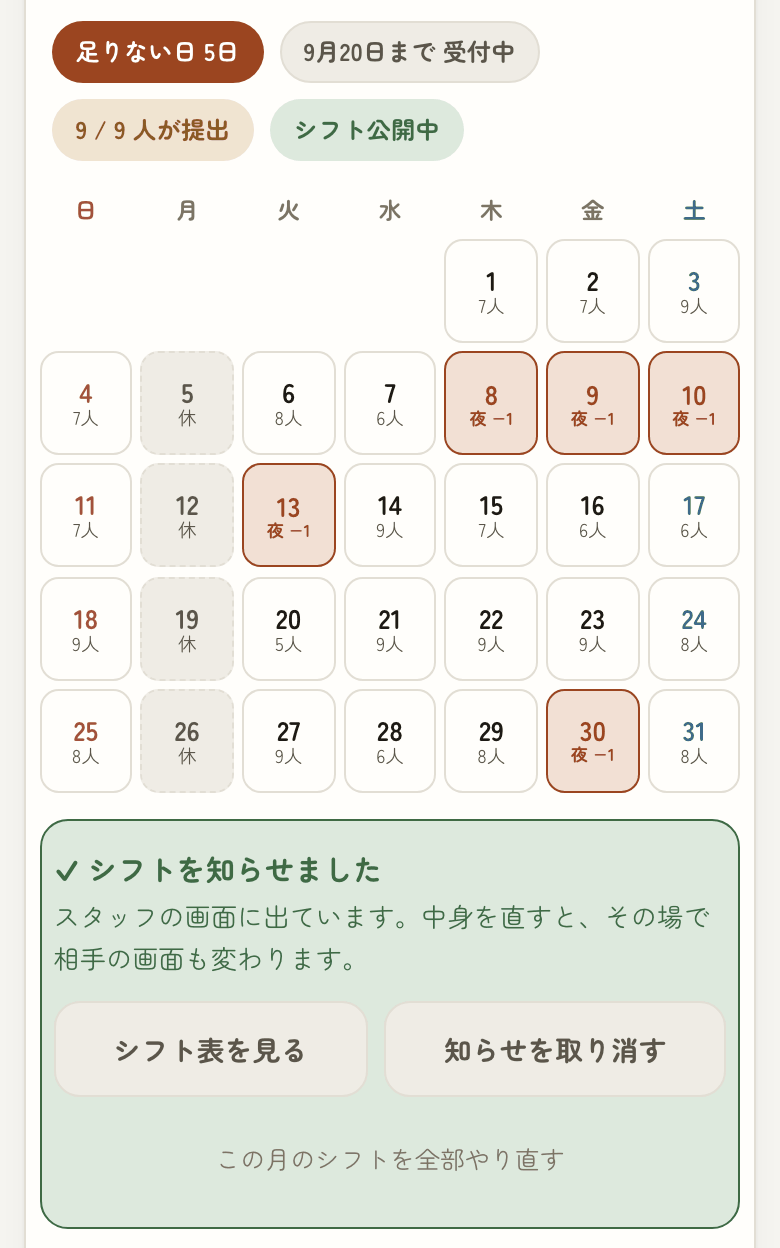
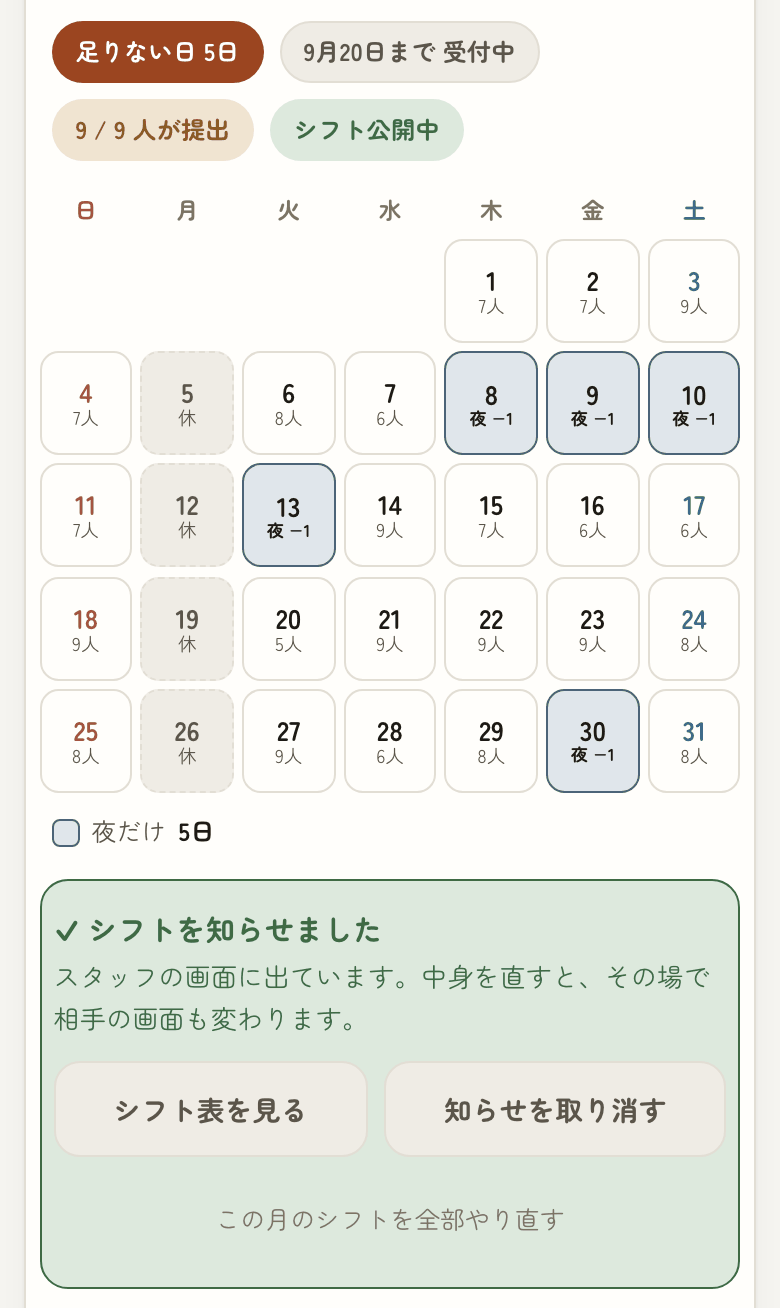
せんや 店長：足りない日を時間帯ごとに色分けした（1つだけ足りない日はその時間帯の色・2つ以上は赤）
- 1つめの時間帯＝黄土・2つめ＝藍（DESIGN.md の顔料の洗い色・字は墨）。時間帯が1つのお店は今までどおり赤
- カレンダーのすぐ下に、色の見本と日数（例：昼だけ 10日・夜だけ 3日・両方 2日）
- 画面と説明書の「足りない日は赤」を「色」に言い換え、カレンダーの写る画像5枚を撮り直した

Claude-Session: https://claude.ai/code/session_01WrqmUkLrVrxaABpAh9Fi1G

diff --git a/tsumiki-senya-tsukaikata.html b/tsumiki-senya-tsukaikata.html
@@ -283,7 +283,7 @@
 <header>
   <p class="kicker">TSUMIKI TOOLS</p>
   <h1>つみき&amp;せんや 使い方</h1>
-  <p class="lead">シフトの希望を集めるアプリです。スタッフは<strong>働ける日をタップするだけ</strong>。店長は<strong>人手が足りない日が、開いた瞬間に赤で分かります</strong>。アプリは<strong>スタッフ用</strong>と<strong>店長用</strong>の2つです。</p>
+  <p class="lead">シフトの希望を集めるアプリです。スタッフは<strong>働ける日をタップするだけ</strong>。店長は<strong>人手が足りない日が、開いた瞬間に色で分かります</strong>。アプリは<strong>スタッフ用</strong>と<strong>店長用</strong>の2つです。</p>
   <p class="openapp">
     <a href="tsumiki-senya.html">スタッフ用を開く →</a>
     <a class="ghost" href="tsumiki-senya-kanri.html">店長用を開く →</a>
@@ -369,7 +369,7 @@
           <div class="arw">→</div>
           <div class="box">店長が<br>1枚で見る</div>
           <div class="arw">→</div>
-          <div class="box">足りない日が<br>赤く出る</div>
+          <div class="box">足りない日に<br>色がつく</div>
         </div>
       </figure></div>
       <div class="txt"><h3><span class="n">1</span>どんな道具か</h3>
@@ -378,7 +378,7 @@
     </article>
 
     <article class="item" id="i2">
-      <div class="figs"><figure class="shot pair"><img src="senya-shots/s-cal.png" alt="スタッフ用アプリのカレンダー" loading="lazy" decoding="async" width="780" height="1110"><img src="senya-shots/k-cal.png" alt="店長用アプリのカレンダー" loading="lazy" decoding="async" width="780" height="1028"><figcaption>左＝スタッフ用（自分のぶんだけ）　右＝店長用（全員ぶん）</figcaption></figure></div>
+      <div class="figs"><figure class="shot pair"><img src="senya-shots/s-cal.png" alt="スタッフ用アプリのカレンダー" loading="lazy" decoding="async" width="780" height="1110"><img src="senya-shots/k-cal.png" alt="店長用アプリのカレンダー" loading="lazy" decoding="async" width="780" height="1136"><figcaption>左＝スタッフ用（自分のぶんだけ）　右＝店長用（全員ぶん）</figcaption></figure></div>
       <div class="txt"><h3><span class="n">2</span>アプリは2つある</h3>
       <p>URLが2本あります。<strong>スタッフ用</strong>は希望を出す画面、<strong>店長用</strong>は全員ぶんを見る画面です。入口も別々なので、まざることはありません。</p>
       <details class="more"><summary>くわしく</summary><div class="mb"><p class="fine">スタッフからは、ほかの人の名前も希望も見えません。見えるのは自分のぶんだけです。</p></div></details></div>
@@ -424,18 +424,18 @@
     </article>
 
     <article class="item" id="i5">
-      <div class="figs"><figure class="shot"><img src="senya-shots/k-cfg2.png" alt="設定の「時間帯と、ほしい人数」" loading="lazy" decoding="async" width="780" height="688"><figcaption>⚙ →「設定」の中。ここの人数を下回った日が赤くなる</figcaption></figure></div>
+      <div class="figs"><figure class="shot"><img src="senya-shots/k-cfg2.png" alt="設定の「時間帯と、ほしい人数」" loading="lazy" decoding="async" width="780" height="688"><figcaption>⚙ →「設定」の中。ここの人数を下回った日に色がつく</figcaption></figure></div>
       <div class="txt"><h3><span class="n">5</span>時間帯とほしい人数を決める（曜日ごとにも）<span class="who-tag m">店長</span></h3>
-      <p>右上の <kbd>⚙</kbd> から <span class="path"><b>設定</b></span> をひらいて、時間帯の<strong>名前・はじまり・おわり・その枠に何人ほしいか</strong>を入れます。<strong>この人数を下回った日が、一覧で赤くなります。</strong></p>
+      <p>右上の <kbd>⚙</kbd> から <span class="path"><b>設定</b></span> をひらいて、時間帯の<strong>名前・はじまり・おわり・その枠に何人ほしいか</strong>を入れます。<strong>この人数を下回った日に、一覧で色がつきます。</strong></p>
       <p><kbd>＋ 時間帯をふやす</kbd> を押すと、<strong>1日に6つまで</strong>時間帯を作れます。<strong>昼と夜のように、仕事がちがう時間帯を分けるときに使います。</strong></p>
-      <p>⚠ 入り時間だけちがう同じ仕事を分けると（例：「昼 9:30〜 を1名」「昼 10:00〜 を2名」）、<b>両方に希望を出した方は2回数えられ</b>、足りない日でも赤くならないことがあります。<strong>ふだんは1つ（昼 9:30〜14:30・3名）にまとめ、何時から入るかは「シフトを決める」で1人ずつ変えるのがおすすめです</strong>（項目23）。開店の時間に何人いるかを必ず確かめたいときだけ分け、スタッフ様には「どちらか一方に出してください」とお伝えください。</p>
+      <p>⚠ 入り時間だけちがう同じ仕事を分けると（例：「昼 9:30〜 を1名」「昼 10:00〜 を2名」）、<b>両方に希望を出した方は2回数えられ</b>、足りない日でも色がつかないことがあります。<strong>ふだんは1つ（昼 9:30〜14:30・3名）にまとめ、何時から入るかは「シフトを決める」で1人ずつ変えるのがおすすめです</strong>（項目23）。開店の時間に何人いるかを必ず確かめたいときだけ分け、スタッフ様には「どちらか一方に出してください」とお伝えください。</p>
       <details class="more"><summary>くわしく</summary><div class="mb"><p class="fine"><b>はじめは仮の値が入っています。</b>お店の時間と人数に、かならず直してください。ここで決めた<b>名前と時間が、そのままスタッフ様の画面に出ます</b>。設定するのはここ1か所だけです。</p>
       <p class="fine">名前は<b>短いほど見やすい</b>です（例：朝・昼・夜・締め）。保存すると<b>はじまりの早い順に並びます</b>。</p>
       <p class="fine">⚠ 時間帯を<b>消す</b>と、その時間帯にスタッフ様が出していた希望も一緒に消えます。消す前に「希望◯件も消えます」と確認が出ます。</p></div></details>
 
       <h4 class="sub-h">曜日ごとに、ほしい人数を変える</h4>
       <p>曜日で人数がだいたい決まっているときは、同じ<span class="path"><b>設定</b></span>の中の <kbd>曜日で人数を変える</kbd> にチェックを入れてください。<strong>日〜土の7行 × 時間帯の表</strong>が出るので、そこに入れるだけです。<b>1日ずつ直す必要はなくなります。</b></p>
-      <p><b>0人</b>と入れた曜日のその時間帯は、募集しません（例：<b>月曜の夜</b>）。<b>一覧で赤くならず、足りない人数にも数えません。</b>日をタップした先には時間帯そのものは並びますが、「0 / 0人」と出るだけです。</p>
+      <p><b>0人</b>と入れた曜日のその時間帯は、募集しません（例：<b>月曜の夜</b>）。<b>一覧で色がつかず、足りない人数にも数えません。</b>日をタップした先には時間帯そのものは並びますが、「0 / 0人」と出るだけです。</p>
       <details class="more"><summary>くわしく</summary><div class="mb"><p class="fine">人数は<b>3段</b>で決まります。上から順に、見つかったところで決まります。<br>① <b>その日だけの人数</b>（日をタップ →「この日の必要人数」）<br>② <b>曜日ごとの人数</b>（いま入れたところ）<br>③ <b>時間帯の人数</b>（すぐ上の「◯人ほしい」）<br>チェックを外すと ② をやめて、③ の人数にもどります。入れた数字は消えます。</p>
       <p class="fine">⚠ <b>すでに「この日の必要人数」で入れた日は、そちらが優先されます</b>（曜日ごとを決めても変わりません）。表の下に <b>◯月の「この日だけ」の人数を消して、曜日ごとにそろえる</b> が出ているときは、その月に1日ずつの設定が残っている印です。押すとその月ぶんだけ消えて、曜日ごとの人数にそろいます（希望やシフトは消えません）。</p>
       <p class="fine">祝日は、その曜日として数えます（例：月曜の祝日は「月」の人数）。祝日だけ人数を変えたいときは、その日をタップして <b>「この日の必要人数」</b> で上書きしてください。</p></div></details></div>
@@ -562,16 +562,16 @@
   <div class="items">
 
 <article class="item" id="i20">
-      <div class="figs"><figure class="shot"><img src="senya-shots/k-list.png" alt="店長の一覧画面" loading="lazy" decoding="async" width="780" height="1368"><figcaption>開いていちばん上。赤い札とカレンダーの赤が同じことを指す</figcaption></figure></div>
+      <div class="figs"><figure class="shot"><img src="senya-shots/k-list.png" alt="店長の一覧画面" loading="lazy" decoding="async" width="780" height="1476"><figcaption>開いていちばん上。赤い札と、カレンダーの色のついた日が同じことを指す</figcaption></figure></div>
       <div class="txt"><h3><span class="n">20</span>足りない日がすぐ分かる<span class="who-tag m">店長</span></h3>
-      <p>開くといちばん上に <strong>「足りない日 ◯日」</strong> の赤い札が出ます。<strong>どの日かは、すぐ下のカレンダーが赤で教えてくれます。</strong>赤いマスを押すと、その日の画面が開きます。</p>
+      <p>開くといちばん上に <strong>「足りない日 ◯日」</strong> の赤い札が出ます。<strong>どの日かは、すぐ下のカレンダーが色で教えてくれます。</strong>色のついたマスを押すと、その日の画面が開きます。</p>
       <details class="more"><summary>くわしく</summary><div class="mb"><p class="fine">足りない日が1日も無いときは「足りない日なし」と緑で出ます。<br>スタッフから締切後のお願いが届いていると、その下に帯が出ます。押すと一覧がひらきます。<br>「◯人が出し終わり」の数は、右上の <kbd>⚙</kbd> →<span class="path"><b>スタッフ</b></span> にあります。</p></div></details></div>
     </article>
 
 <article class="item" id="i21">
-      <div class="figs"><figure class="shot"><img src="senya-shots/k-cal.png" alt="足りない日が赤くなったカレンダー" loading="lazy" decoding="async" width="780" height="1028"><figcaption>「夜 −1」＝夜にあと1人ほしい</figcaption></figure></div>
+      <div class="figs"><figure class="shot"><img src="senya-shots/k-cal.png" alt="足りない日に色がついたカレンダー" loading="lazy" decoding="async" width="780" height="1136"><figcaption>「夜 −1」＝夜にあと1人ほしい</figcaption></figure></div>
       <div class="txt"><h3><span class="n">21</span>カレンダーの読み方<span class="who-tag m">店長</span></h3>
-      <p>足りている日は<strong>その日に入れる人数だけ</strong>。足りない日は<strong>赤くなって「夜 −1」</strong>と出ます。これは「夜にあと1人ほしい」という意味です。</p>
+      <p>足りている日は<strong>その日に入れる人数だけ</strong>。足りない日は<strong>色がついて「夜 −1」</strong>と出ます。<strong>1つの時間帯だけ足りない日はその時間帯の色</strong>（1つめ＝黄土・2つめ＝藍）、<strong>2つ以上足りない日は赤</strong>です。カレンダーのすぐ下に、色の見本と日数が出ます。これは「夜にあと1人ほしい」という意味です。</p>
       <details class="more"><summary>くわしく</summary><div class="mb"><p class="fine">点線の「休」は定休日で、人数は数えません。四角い枠が出ている日は今日です。<br><strong>「行けたら」（△）の人は、この数には入れていません。</strong>あてにできる人だけで足りているかを見るためです。</p></div></details></div>
     </article>
 
@@ -612,7 +612,7 @@
     </article>
 
 <article class="item" id="i27">
-      <div class="figs"><figure class="shot"><img src="senya-shots/k-shift.png" alt="みんなに知らせるボタン" loading="lazy" decoding="async" width="780" height="402"><figcaption>押すまで、スタッフには見えない</figcaption></figure><figure class="shot"><img src="senya-shots/k-pub.png" alt="知らせたあとの店長画面" loading="lazy" decoding="async" width="780" height="1200"><figcaption>知らせると「✓ シフトを知らせました」に変わる</figcaption></figure></div>
+      <div class="figs"><figure class="shot"><img src="senya-shots/k-shift.png" alt="みんなに知らせるボタン" loading="lazy" decoding="async" width="780" height="402"><figcaption>押すまで、スタッフには見えない</figcaption></figure><figure class="shot"><img src="senya-shots/k-pub.png" alt="知らせたあとの店長画面" loading="lazy" decoding="async" width="780" height="1308"><figcaption>知らせると「✓ シフトを知らせました」に変わる</figcaption></figure></div>
       <div class="txt"><h3><span class="n">27</span>みんなに知らせる<span class="who-tag m">店長</span></h3>
       <p>組んでいる途中は<strong>スタッフには見えません</strong>。ひととおり決まったら、カレンダーの下の <kbd>みんなに知らせる</kbd> を押します。全員の画面に「決まったシフト」が出ます。</p>
       
@@ -729,7 +729,7 @@
       <div class="txt"><h3><span class="n">39</span>はじめて開くと、画面が案内します</h3>
       <p>スタッフも店長も、<strong>はじめて開いたときは画面ぜんたいが暗くなり、押すところだけが明るく光ります</strong>。光っているところの近くに短い説明が出るので、読みながらそのとおりに押していけば、そのまま使いはじめられます。</p>
       <p class="caution fine">⚠ 案内の中の操作は<b>本物</b>です。スタッフの「この日で出す」は、そのままお店に届きます（締切までは何度でも直せます）。</p>
-      <details class="more"><summary>くわしく</summary><div class="mb"><p class="fine">スタッフは<b>「働ける日をひとつ出す」</b>まで、店長は<b>「設定 → スタッフを追加 → URLを渡す」</b>までをご案内します。店長側は、希望が集まった月をはじめて開いたときに、<b>「赤い日の見かた → シフトを決める → シフト表を出す」</b>の案内があらためて出ます。</p><p class="fine">説明の右上の <kbd>あとで</kbd> でいつでもやめられます。<b>つぎへ</b> を押しても進みます（押しそこねても止まりません）。暗いところは押せません。</p></div></details></div>
+      <details class="more"><summary>くわしく</summary><div class="mb"><p class="fine">スタッフは<b>「働ける日をひとつ出す」</b>まで、店長は<b>「設定 → スタッフを追加 → URLを渡す」</b>までをご案内します。店長側は、希望が集まった月をはじめて開いたときに、<b>「色のついた日の見かた → シフトを決める → シフト表を出す」</b>の案内があらためて出ます。</p><p class="fine">説明の右上の <kbd>あとで</kbd> でいつでもやめられます。<b>つぎへ</b> を押しても進みます（押しそこねても止まりません）。暗いところは押せません。</p></div></details></div>
     </article>
 
     <article class="item" id="i40">
@@ -758,8 +758,8 @@
       <div class="a">月がちがうかもしれません。上の <b>‹ ›</b> で月を確認してください。それでも無ければ、店長側から入れ直せます。</div>
     </div>
     <div>
-      <div class="q">全部の日が赤くなってしまう</div>
-      <div class="a"><b>ほしい人数が多すぎます。</b>右上の <kbd>⚙</kbd> →<span class="path"><b>設定</b></span> で昼・夜のほしい人数を見直してください。まだ誰も出していない月は、赤くなりません。</div>
+      <div class="q">全部の日に色がついてしまう</div>
+      <div class="a"><b>ほしい人数が多すぎます。</b>右上の <kbd>⚙</kbd> →<span class="path"><b>設定</b></span> で昼・夜のほしい人数を見直してください。まだ誰も出していない月は、色がつきません。</div>
     </div>
     <div>
       <div class="q">定休日なのに営業する日がある</div>

diff --git a/tsumiki-senya-kanri.html b/tsumiki-senya-kanri.html
@@ -16,6 +16,8 @@
 <title>つみき&amp;せんや 店長</title>
 <style>
   :root{
+    /* 足りない日の色分け（顔料＝DESIGN.md の黄土・藍・苔・紫紺・鳶）。塗りは洗い色、字は墨 */
+    --p1:#b07a2c; --p1-wash:#f1e8da; --p3:#4c6478; --p3-wash:#e0e6eb; --p4:#63764e; --p4-wash:#e6ebe0; --p6:#6a5878; --p6-wash:#e6e2e9; --p5:#8a6a4e; --p5-wash:#ede5de;
     --paper:#f5f4f0; --surface:#fffefb; --surface-2:#efece5; --ink:#1d1a15;
     /* 色の上に載せる文字の色。暗い表示では地の色が明るくなるので、白のままだと読みにくい */
     --on-accent:#ffffff;
@@ -51,6 +53,7 @@
       --accent:#d59a4d; --accent-2:#e0ab63; --accent-wash:#3c2d18; --accent-fill:#d59a4d;
       --good:#7fae82; --good-wash:#23301f; --warn:#d9825a; --warn-wash:#39251a;
       --sat:#7fa8c4; --sun:#d4867a;
+      --p1:#d59a4d; --p1-wash:#362a19; --p3:#7fa8c4; --p3-wash:#1d2831; --p4:#8fae7f; --p4-wash:#22301f; --p6:#a894c4; --p6-wash:#2a2333; --p5:#c09a78; --p5-wash:#33271d;
       --shadow:0 1px 2px rgba(0,0,0,.3), 0 12px 30px -18px rgba(0,0,0,.65);
     }
   }
@@ -62,6 +65,7 @@
     --accent:#d59a4d; --accent-2:#e0ab63; --accent-wash:#3c2d18; --accent-fill:#d59a4d;
     --good:#7fae82; --good-wash:#23301f; --warn:#d9825a; --warn-wash:#39251a;
     --sat:#7fa8c4; --sun:#d4867a;
+    --p1:#d59a4d; --p1-wash:#362a19; --p3:#7fa8c4; --p3-wash:#1d2831; --p4:#8fae7f; --p4-wash:#22301f; --p6:#a894c4; --p6-wash:#2a2333; --p5:#c09a78; --p5-wash:#33271d;
     --shadow:0 1px 2px rgba(0,0,0,.3), 0 12px 30px -18px rgba(0,0,0,.65);
   }
   *{box-sizing:border-box;}
@@ -182,6 +186,19 @@
   .cell .lack{font-size:clamp(.54rem,2.1vw,.66rem); font-weight:700; color:var(--warn);
     line-height:1.15; text-align:center; font-variant-numeric:tabular-nums;}
   .cell.today{box-shadow:0 0 0 2px var(--ink) inset;}
+  /* 足りないのが1つの時間帯だけの日は、その時間帯の色（1つめ＝黄土・2つめ＝藍…）。
+     2つ以上の時間帯が足りない日は、いちばん急ぐので弁柄（.cell.short のまま）。字は墨 */
+  .cell.short.lk0{background:var(--p1-wash); border-color:var(--p1);}
+  .cell.short.lk1{background:var(--p3-wash); border-color:var(--p3);}
+  .cell.short.lk2{background:var(--p4-wash); border-color:var(--p4);}
+  .cell.short.lk3{background:var(--p6-wash); border-color:var(--p6);}
+  .cell.short.lk4{background:var(--p5-wash); border-color:var(--p5);}
+  .cell.short[class*="lk"] .dn, .cell.short[class*="lk"] .lack{color:var(--ink);}
+  /* 色の見本（カレンダーのすぐ下） */
+  .lklegend{display:flex; flex-wrap:wrap; gap:6px 14px; margin-top:10px; font-size:.78rem; color:var(--ink-mid);}
+  .lklegend span{display:inline-flex; align-items:center; gap:6px; white-space:nowrap;}
+  .lklegend i{width:14px; height:14px; border-radius:4px; border:1.5px solid; flex:none;}
+  .lklegend b{color:var(--ink); font-weight:700; font-variant-numeric:tabular-nums;}
   .cell:active{transform:scale(.96);}
 
   /* せまい画面ではカレンダーをカードの端まで広げて、マスの幅を稼ぐ
@@ -735,6 +752,7 @@
       <div class="s0">日</div><div>月</div><div>火</div><div>水</div><div>木</div><div>金</div><div class="s6">土</div>
     </div>
     <div class="cal" id="cal"></div>
+    <div class="lklegend" id="lkLegend" hidden></div>
     <div id="shiftBox"></div>
     <p class="muted" style="margin:13px 0 0; line-height:1.65" id="hint1"></p>
   </section>
@@ -782,7 +800,7 @@
       <button type="button" id="cfAddSlot">＋ 時間帯をふやす</button>
       <p id="cfSlotNote"></p>
       <p class="muted" style="margin:8px 0 0; line-height:1.6">
-        この人数を下回った日が、一覧で赤くなります。<br>
+        この人数を下回った日に、一覧で色がつきます。<br>
         ここで決めた名前と時間が、そのままスタッフの画面に出ます。<br>
         <b>時間帯は6つまで</b>ふやせます（例：昼を「10:00〜」と「11:00〜」の2つに分ける）。
       </p>
@@ -1338,19 +1356,24 @@ function renderMonth(){
   }else if(!anySubmitted){
     box.className='sumbox ok';
     box.innerHTML='<div class="hd">まだ誰も出していません</div>'+
-      '<div class="muted" style="margin-top:6px">出そろうと、足りない日が赤くなります</div>';
+      '<div class="muted" style="margin-top:6px">出そろうと、足りない日に色がつきます</div>';
   }else{
     box.className=''; box.innerHTML='';
   }
 
   /* カレンダー */
   const cal=document.getElementById('cal'); cal.innerHTML='';
+  const lkCount={};
   for(let i=0;i<lead;i++){ const e=document.createElement('div'); e.className='cell blank'; cal.appendChild(e); }
   for(let d=1;d<=last;d++){
     const key=ymd(y,m1,d), w=new Date(y,m1-1,d).getDay(), rest=closed.has(w);
     const l=lackOn(key), isShort = anySubmitted && !rest && anyLack(key);
+    /* 足りない時間帯が1つだけなら、その時間帯の色。2つ以上なら弁柄のまま */
+    const lkIdx=slots().map((s,i)=>l[s.k]>0?i:-1).filter(i=>i>=0);
+    const lk = isShort ? ((slots().length>=2 && lkIdx.length===1 && lkIdx[0]<=4) ? lkIdx[0] : 'x') : null;   // 時間帯が1つのお店は今までどおり赤   // 6つめの時間帯は色が無いので弁柄
+    if(lk!=null) lkCount[lk]=(lkCount[lk]||0)+1;
     const e=document.createElement('div');
-    e.className='cell s'+w+(rest?' rest':'')+(isShort?' short':'')+(key===shop.today?' today':'');
+    e.className='cell s'+w+(rest?' rest':'')+(isShort?' short'+(lk!=='x'?' lk'+lk:''):'')+(key===shop.today?' today':'');
     let inner='<div class="dn">'+d+'</div>';
     if(rest) inner+='<div class="num">休</div>';
     else if(isShort){
@@ -1371,14 +1394,28 @@ function renderMonth(){
     cal.appendChild(e);
   }
 
+  renderLkLegend(lkCount);
   renderShiftBox(anySubmitted);
 
   /* ⚠ 赤い日が1つも無いときに「赤い日は…」と説明するのは、無いものの説明になる。 */
   document.getElementById('hint1').textContent =
-      shortDays.length ? '赤い日は人手が足りない日（「'+slotEg()+' −1」＝'+slotEg()+'にあと1人）。日をタップすると、その日に入れる人が出ます。'
+      shortDays.length ? '色のついた日は人手が足りない日（「'+slotEg()+' −1」＝'+slotEg()+'にあと1人）。日をタップすると、その日に入れる人が出ます。'
     : anySubmitted     ? '日をタップすると、その日に入れる人と、決めたシフトが出ます。'
-    :                    '日をタップすると、その日に入れる人が出ます。ほしい人数を下回ると赤くなります（人数は「設定」で決めます）。';
+    :                    '日をタップすると、その日に入れる人が出ます。ほしい人数を下回ると色がつきます（人数は「設定」で決めます）。';
   tutMaybeStart();
+}
+
+/* 色の見本。時間帯が2つ以上あって、足りない日があるときだけ出す */
+function renderLkLegend(cnt){
+  const box=document.getElementById('lkLegend'), sl=slots();
+  const PV=['--p1','--p3','--p4','--p6','--p5'];
+  const keys=Object.keys(cnt);
+  if(sl.length<2 || !keys.length){ box.hidden=true; box.innerHTML=''; return; }
+  let h='';
+  sl.forEach((s,i)=>{ const k=String(i); if(i>4 || !cnt[k]) return;
+    h+='<span><i style="background:var('+PV[k]+'-wash);border-color:var('+PV[k]+')"></i>'+esc(s.label)+'だけ <b>'+cnt[k]+'日</b></span>'; });
+  if(cnt.x) h+='<span><i style="background:var(--warn-wash);border-color:var(--warn)"></i>'+(sl.length===2?'両方':'2つ以上')+' <b>'+cnt.x+'日</b></span>';
+  box.innerHTML=h; box.hidden=false;
 }
 
 /* ===== ⑥＋B：シフトを組む・配る ===== */
@@ -2463,7 +2500,7 @@ function tutSteps1(){
     {h:'ようこそ',
      text:'することは月に3つ。①URLを渡す ②シフトを組む ③知らせる。'},
     {sel:'#cal', pad:4, h:'この画面が「一覧」',
-     text:'ふだんはここだけ。希望が集まると、足りない日が赤くなります。'},
+     text:'ふだんはここだけ。希望が集まると、足りない日に色がつきます。'},
     {sel:'#gearBtn', h:'準備は歯車の中', text:'右上の歯車を押してください。',
      done:menuOpen},
     {sel:'#goCfgM', need:menuOpen, h:'まずは「設定」', text:'押してください。',
@@ -2511,7 +2548,7 @@ function tutSteps2(){
   return [
     {sel:'#stateRow', enter:function(){ if(!viewShown(1)) showView(1); },
      h:'今月のようす', text:'足りない日と、出し終わった人数が出ます。'},
-    {sel:'#cal', pad:4, h:'赤い日＝人手が足りない日',
+    {sel:'#cal', pad:4, h:'色のついた日＝人手が足りない日',
      text:'「'+slotEg()+' −1」＝'+slotEg()+'にあと1人。日をタップしてみてください。',
      done:sheetOpen},
     {sel:'#slots', need:sheetOpen, h:'その日に入れる人',
@@ -2865,6 +2902,7 @@ function tutMaybeStart(){
   })();
 </script>
 <!-- /tsumiki-license-gate -->
+
 
 
 
